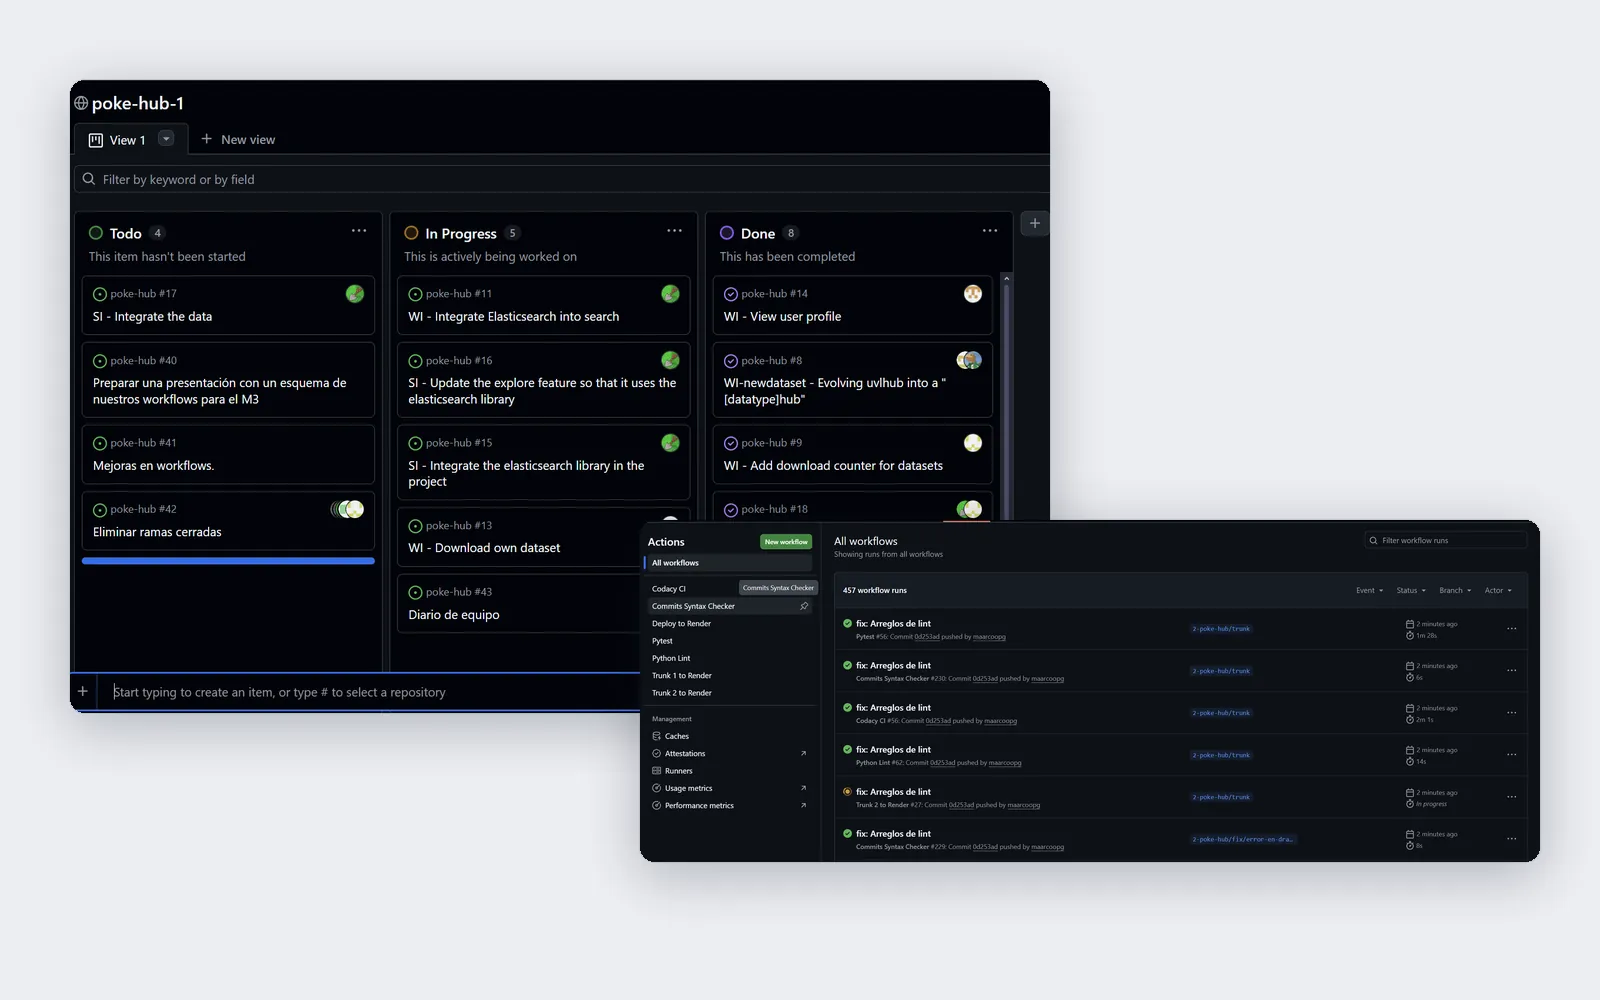
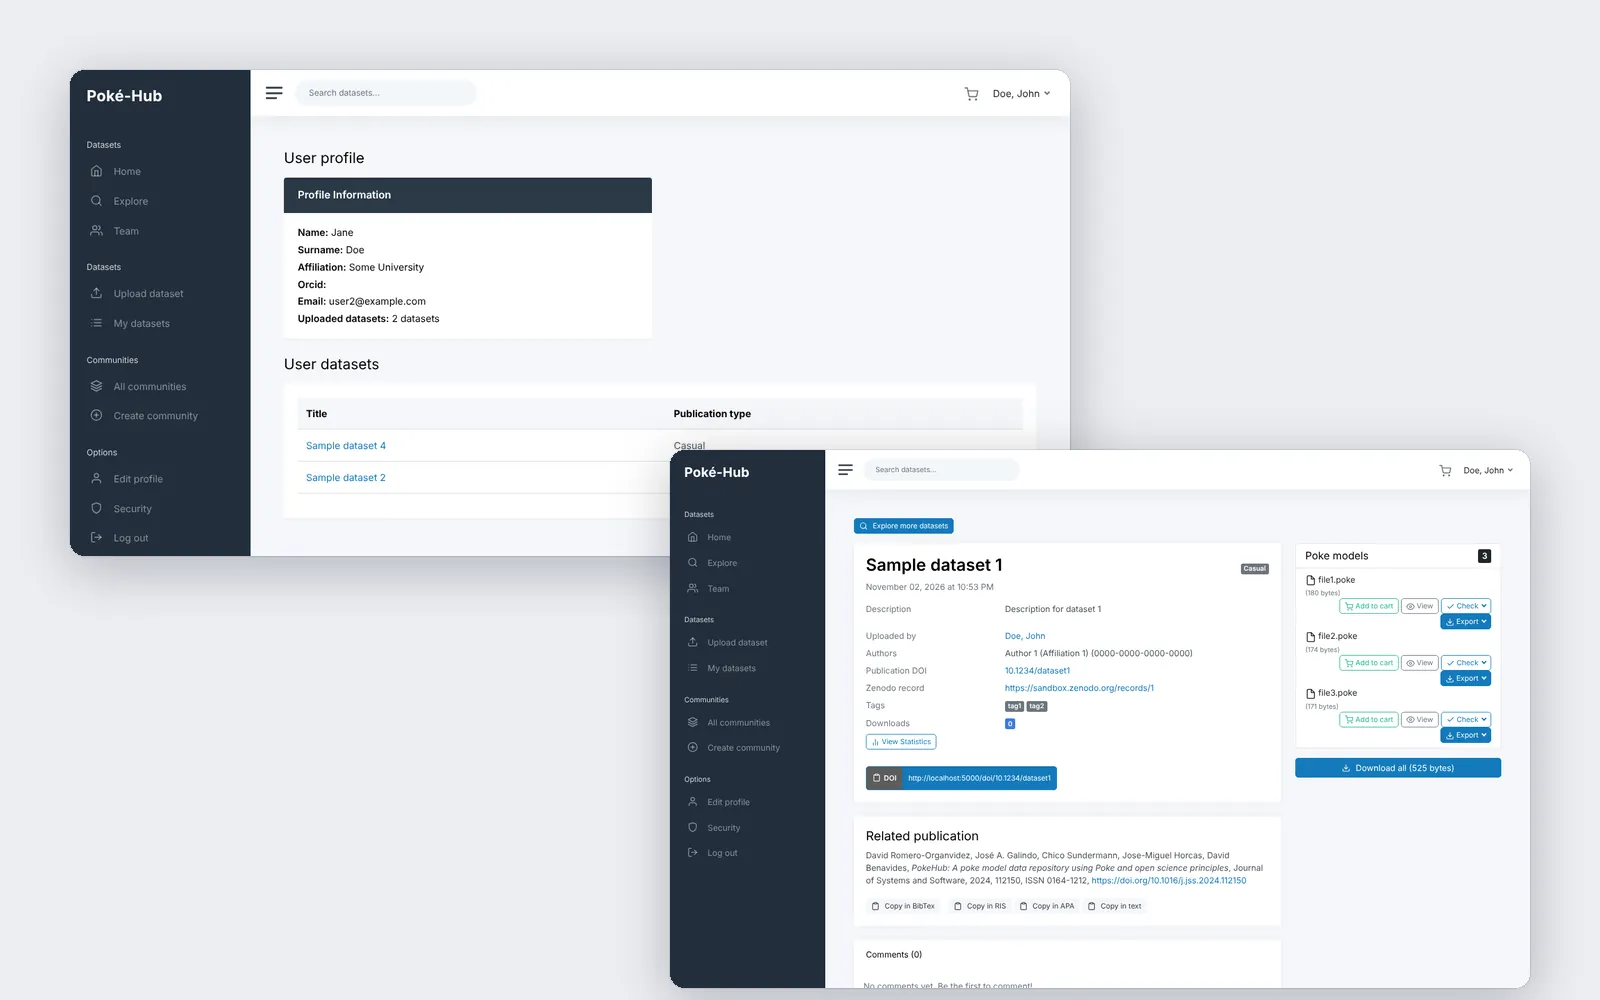
Capturas reales de Poké-Hub y de la integración continua de VecinUs
- Poké-Hub: la app ejecutada en local con los datos de prueba del propio
  repositorio. Capturas del perfil público con los datasets de cada
  usuario (la parte que desarrollé), la ficha de un dataset, la portada y
  la lista de datasets, sin la decoración temática.
- VecinUs: captura de GitHub Actions con la revisión mensual de seguridad
  y las actualizaciones de Dependabot.

Claude-Session: https://claude.ai/code/session_01PYV6iKrbiz8JJx8i2wWxxc

diff --git a/proyectos/poke-hub/index.html b/proyectos/poke-hub/index.html
@@ -4,10 +4,10 @@
 <meta charset="utf-8">
 <meta name="viewport" content="width=device-width, initial-scale=1">
 <title>Poké-Hub, proyecto de Joaquín Borja León</title>
-<meta name="description" content="Repositorio de modelos con un flujo de trabajo de integración y despliegue continuos.">
+<meta name="description" content="Repositorio de modelos de datos. Hice el perfil público con los datasets de cada usuario y casi la mitad de los tests.">
 <meta name="theme-color" content="#ffffff">
 <meta property="og:title" content="Poké-Hub, proyecto de Joaquín Borja León">
-<meta property="og:description" content="Repositorio de modelos con un flujo de trabajo de integración y despliegue continuos.">
+<meta property="og:description" content="Repositorio de modelos de datos. Hice el perfil público con los datasets de cada usuario y casi la mitad de los tests.">
 <meta property="og:url" content="https://joaquinborjaleon.com/proyectos/poke-hub/">
 <meta property="og:image" content="https://joaquinborjaleon.com/img/covers/poke-hub.webp">
 <meta property="og:type" content="article">
@@ -46,12 +46,12 @@
   </section>
   <div class="wrap">
       <figure class="stage reveal">
-        <div data-ui class="shot solo"><img src="/img/poke-hub/tablero.webp?v=9b118419" width="1400" height="905" fetchpriority="high" decoding="async" alt="Tablero de GitHub Projects con las tareas del equipo por estado" data-en="GitHub Projects board with the team’s tasks by status"></div>
-        <figcaption><span lang="es">Tablero del equipo con las tareas de cada persona.</span><span lang="en">The team board with everyone’s tasks.</span></figcaption>
+        <div data-ui class="shot solo"><img src="/img/poke-hub/perfil-publico.webp?v=84533197" width="1440" height="700" fetchpriority="high" decoding="async" alt="Perfil público de un usuario de Poké-Hub con su información y la lista de datasets que ha subido" data-en="Public profile of a Poké-Hub user with their details and the datasets they uploaded"></div>
+        <figcaption><span lang="es">Perfil público de un usuario con sus datasets, la parte que desarrollé. App ejecutada en local con datos de prueba y sin la decoración temática.</span><span lang="en">Public user profile with their datasets, the part I built. App run locally with test data and without its themed decoration.</span></figcaption>
       </figure>
       <section class="p-sec reveal">
         <h2><span lang="es">Mi parte</span><span lang="en">My part</span></h2>
-        <div><ul class="points single"><li><span lang="es">Que cada usuario vea en su perfil los conjuntos de datos que ha subido.</span><span lang="en">Letting every user see the datasets they uploaded on their profile.</span></li><li><span lang="es"><b>43 de los 98 tests del equipo</b>, unitarios y de integración, sobre perfiles, modelos y la descarga del propio dataset.</span><span lang="en"><b>43 of the team’s 98 tests</b>, unit and integration, covering profiles, models and downloading your own dataset.</span></li><li><span lang="es">La guía de despliegue y uso con Vagrant.</span><span lang="en">The deployment and usage guide with Vagrant.</span></li></ul></div>
+        <div><ul class="points single"><li><span lang="es"><b>El perfil público de cada usuario</b>, con su información y los datasets que ha subido, paginados.</span><span lang="en"><b>The public profile of every user</b>, with their details and the datasets they uploaded, paginated.</span></li><li><span lang="es">En la ficha de cada dataset, el nombre de quien lo subió enlaza a ese perfil.</span><span lang="en">On every dataset page, the uploader’s name links to that profile.</span></li><li><span lang="es"><b>43 de los 98 tests del equipo</b>, unitarios y de integración, sobre perfiles, modelos y la descarga del propio dataset.</span><span lang="en"><b>43 of the team’s 98 tests</b>, unit and integration, covering profiles, models and downloading your own dataset.</span></li><li><span lang="es">La guía de despliegue y uso con Vagrant.</span><span lang="en">The deployment and usage guide with Vagrant.</span></li></ul></div>
       </section>
       <section class="p-sec reveal">
         <h2><span lang="es">En cifras</span><span lang="en">In numbers</span></h2>
@@ -64,11 +64,20 @@
       <section class="p-gallery" aria-label="Galería">
         <h2><span lang="es">Galería</span><span lang="en">Gallery</span></h2>
         <div class="gallery"><figure class="reveal wide">
+            <div data-ui class="shot"><img src="/img/poke-hub/dataset.webp?v=a9da499e" width="1440" height="900" decoding="async" alt="Ficha de un dataset con sus datos, el autor enlazado y sus modelos" data-en="Dataset page with its details, the linked uploader and its models"></div>
+            <figcaption><span lang="es">Ficha de un dataset: el autor enlaza a su perfil.</span><span lang="en">Dataset page: the uploader links to their profile.</span></figcaption>
+          </figure><figure class="reveal">
+            <div data-ui class="shot"><img src="/img/poke-hub/inicio.webp?v=2f375d2a" width="1440" height="900" decoding="async" alt="Portada de Poké-Hub con los datasets más recientes y estadísticas" data-en="Poké-Hub home with the latest datasets and statistics"></div>
+            <figcaption><span lang="es">Portada con los datasets más recientes.</span><span lang="en">Home page with the latest datasets.</span></figcaption>
+          </figure><figure class="reveal">
+            <div data-ui class="shot"><img src="/img/poke-hub/mis-datasets.webp?v=631c4470" width="1440" height="620" decoding="async" alt="Lista de datasets del usuario con opciones de ver y descargar" data-en="The user’s dataset list with view and download options"></div>
+            <figcaption><span lang="es">Los datasets del usuario.</span><span lang="en">The user’s datasets.</span></figcaption>
+          </figure><figure class="reveal">
+            <div data-ui class="shot"><img src="/img/poke-hub/tablero.webp?v=9b118419" width="1400" height="905" decoding="async" alt="Tablero de GitHub Projects con las tareas del equipo por estado" data-en="GitHub Projects board with the team’s tasks by status"></div>
+            <figcaption><span lang="es">Tablero del equipo con las tareas de cada persona.</span><span lang="en">The team board with everyone’s tasks.</span></figcaption>
+          </figure><figure class="reveal">
             <div data-ui class="shot"><img src="/img/poke-hub/actions.webp?v=869da629" width="1600" height="608" decoding="async" alt="Lista de ejecuciones de GitHub Actions del repositorio" data-en="List of GitHub Actions runs in the repository"></div>
             <figcaption><span lang="es">Ejecuciones de integración continua.</span><span lang="en">Continuous integration runs.</span></figcaption>
-          </figure><figure class="reveal wide">
-            <div data-ui class="shot"><img src="/img/poke-hub/rama.webp?v=811f9c53" width="1400" height="781" decoding="async" alt="Creación de una rama desde una incidencia de GitHub" data-en="Creating a branch from a GitHub issue"></div>
-            <figcaption><span lang="es">Cada tarea nace de una incidencia con su rama.</span><span lang="en">Every task starts from an issue with its own branch.</span></figcaption>
           </figure></div>
       </section>
       <nav class="pager reveal" aria-label="Más proyectos">

diff --git a/index.html b/index.html
@@ -121,10 +121,10 @@
         </div>
       </a>
       <a class="card reveal" href="/proyectos/poke-hub/">
-        <div class="media"><img src="/img/covers/poke-hub.webp?v=16b07d1c" width="1600" height="1000" loading="lazy" decoding="async" alt="Tablero del proyecto y ejecuciones de GitHub Actions de Poké-Hub" data-en="Poké-Hub project board and GitHub Actions runs"></div>
+        <div class="media"><img src="/img/covers/poke-hub.webp?v=b9705c82" width="1600" height="1000" loading="lazy" decoding="async" alt="Perfil público de un usuario y ficha de un dataset en Poké-Hub" data-en="Poké-Hub public user profile and dataset page"></div>
         <div class="card-body">
           <h3>Poké-Hub</h3>
-          <p class="card-sum"><span lang="es">Repositorio de modelos con un flujo de trabajo de integración y despliegue continuos.</span><span lang="en">A model repository built around a continuous integration and deployment workflow.</span></p>
+          <p class="card-sum"><span lang="es">Repositorio de modelos de datos. Hice el perfil público con los datasets de cada usuario y casi la mitad de los tests.</span><span lang="en">A data model repository. I built the public profile with each user’s datasets and almost half of the tests.</span></p>
           <p class="p-meta"><span class="i"><span lang="es">Proyecto de equipo</span><span lang="en">Team project</span></span><span class="i"><span lang="es">12 personas</span><span lang="en">12 people</span></span><span class="i">2025</span></p>
           <span class="go"><span lang="es">Ver proyecto</span><span lang="en">View project</span> <span class="arr" aria-hidden="true">→</span></span>
         </div>

diff --git a/proyectos/vecinus/index.html b/proyectos/vecinus/index.html
@@ -63,7 +63,10 @@
       </section>
       <section class="p-gallery" aria-label="Galería">
         <h2><span lang="es">Galería</span><span lang="en">Gallery</span></h2>
-        <div class="gallery"><figure class="reveal">
+        <div class="gallery"><figure class="reveal wide">
+            <div data-ui class="shot"><img src="/img/vecinus/ci.webp?v=b53e8dcc" width="1568" height="548" decoding="async" alt="Ejecuciones correctas de los workflows de seguridad y de Dependabot en GitHub Actions" data-en="Successful runs of the security and Dependabot workflows on GitHub Actions"></div>
+            <figcaption><span lang="es">Lo que monté: la revisión mensual de seguridad y las actualizaciones de Dependabot, todavía en marcha y en verde.</span><span lang="en">What I set up: the monthly security review and Dependabot updates, still running and green.</span></figcaption>
+          </figure><figure class="reveal">
             <div data-ui class="shot"><img src="/img/vecinus/pase-qr.webp?v=0aaf63a5" width="1200" height="585" decoding="async" alt="Pase QR de una reserva de la piscina" data-en="QR pass for a pool booking"></div>
             <figcaption><span lang="es">Pase QR de una reserva.</span><span lang="en">QR pass for a booking.</span></figcaption>
           </figure><figure class="reveal">
